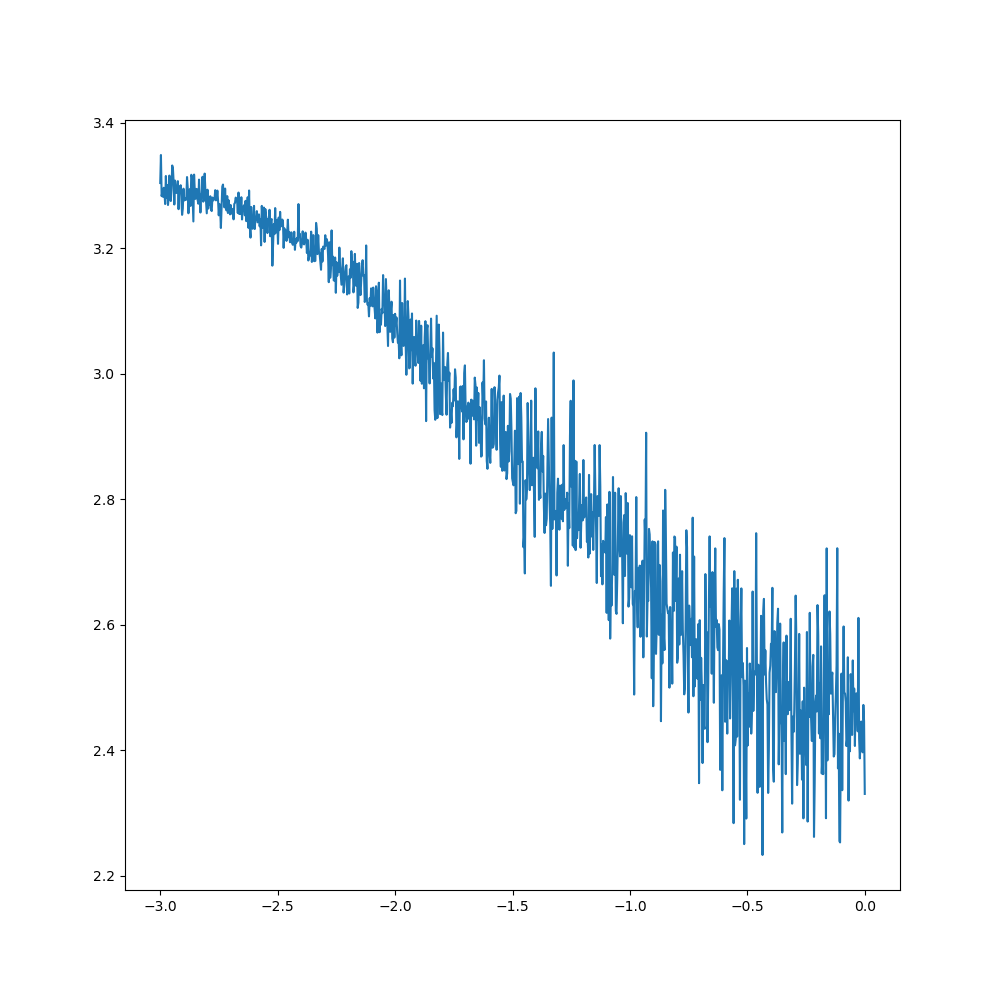
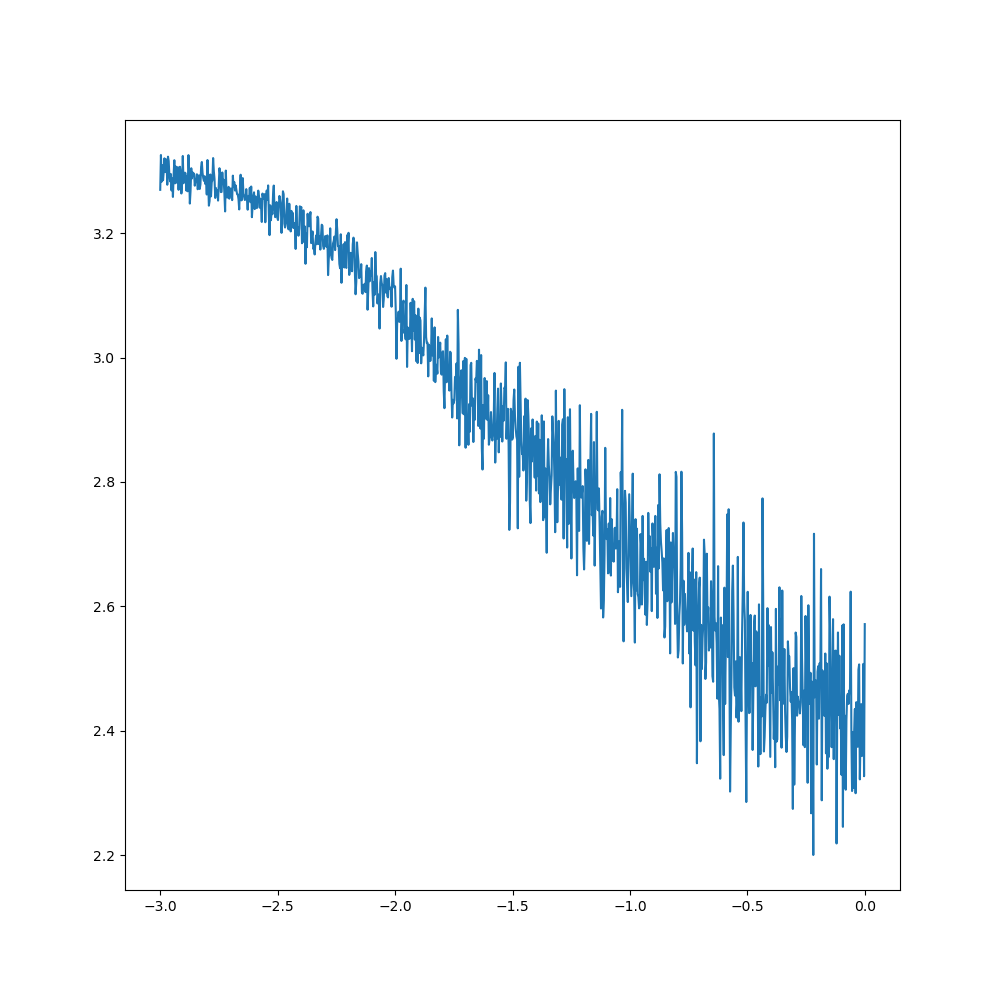
Added the direction connection
This commit adds the optional direct connection discussed in the paper.
It is important to note that the model's loss did not get better, it
increased from 2.12 to about 2.16.

diff --git a/multilayer_perceptron.py b/multilayer_perceptron.py
@@ -100,7 +100,7 @@ def train(
             embeddings.view(-1, BLOCK_SIZE * EMBEDDING_LENGTH) @ parameters[1]
             + parameters[2]
         )
-        logits = hidden_layer_output @ parameters[3] + parameters[4]
+        logits = embeddings.view(-1, BLOCK_SIZE * EMBEDDING_LENGTH) @ parameters[3] + hidden_layer_output @ parameters[4] + parameters[5]
         train_loss = F.cross_entropy(logits, training_set[1][batch_index])
         losses["training loss"].append(train_loss.item())
         for parameter in parameters:
@@ -120,7 +120,7 @@ def train(
                 embeddings.view(-1, BLOCK_SIZE * EMBEDDING_LENGTH) @ parameters[1]
                 + parameters[2]
             )
-            logits = hidden_layer_output @ parameters[3] + parameters[4]
+            logits = embeddings.view(-1, BLOCK_SIZE * EMBEDDING_LENGTH) @ parameters[3] + hidden_layer_output @ parameters[4] + parameters[5]
             val_loss = F.cross_entropy(logits, val_set[1][batch_index])
             losses["validation loss"].append(val_loss.item())
         if epoch % 1000 == 0 or epoch == 1:
@@ -201,7 +201,15 @@ bias_2 = torch.normal(
     requires_grad=True,
     generator=generator
 )
-parameters = [embedding_layer, weights_1, bias_1, weights_2, bias_2]
+direct_connection_weights = torch.normal(
+    0,
+    0.1,
+    (BLOCK_SIZE * EMBEDDING_LENGTH,len(unique_characters)),
+    device=DEVICE,
+    requires_grad=True,
+    generator=generator
+)
+parameters = [embedding_layer, weights_1, bias_1, direct_connection_weights, weights_2, bias_2]
 
 EPOCHS = 1000
 learning_rate_exp = torch.linspace(-3, 0, EPOCHS, device=DEVICE)
@@ -213,7 +221,7 @@ for epoch in range(1, EPOCHS + 1):
     hidden_layer_output = torch.tanh(
         embeddings.view(-1, BLOCK_SIZE * EMBEDDING_LENGTH) @ weights_1 + bias_1
     )
-    logits = hidden_layer_output @ weights_2 + bias_2
+    logits = embeddings.view(-1, BLOCK_SIZE * EMBEDDING_LENGTH) @ direct_connection_weights + hidden_layer_output @ weights_2 + bias_2
     loss = F.cross_entropy(logits, labels[batch_index])
     losses.append(loss.item())
     for parameter in parameters:
@@ -272,12 +280,20 @@ bias_2 = torch.normal(
     requires_grad=True,
     generator=generator
 )
-parameters = [embedding_layer, weights_1, bias_1, weights_2, bias_2]
+direct_connection_weights = torch.normal(
+    0,
+    0.1,
+    (BLOCK_SIZE * EMBEDDING_LENGTH,len(unique_characters)),
+    device=DEVICE,
+    requires_grad=True,
+    generator=generator
+)
+parameters = [embedding_layer, weights_1, bias_1, direct_connection_weights, weights_2, bias_2]
 EPOCHS = 200000
 
 wandb.init(
     project="ml-gallery",
-    name="mlp_classifier-uniform",
+    name="direct-conn",
     config={
         "BLOCK_SIZE": BLOCK_SIZE,
         "HIDDEN_LAYER": HIDDEN_LAYER,
@@ -307,7 +323,7 @@ with torch.no_grad():
         embeddings.view(-1, BLOCK_SIZE * EMBEDDING_LENGTH) @ parameters[1]
         + parameters[2]
     )
-    logits = hidden_layer_output @ parameters[3] + parameters[4]
+    logits = embeddings.view(-1, BLOCK_SIZE * EMBEDDING_LENGTH) @ parameters[3] + hidden_layer_output @ parameters[4] + parameters[5]
     test_loss = F.cross_entropy(logits, test_set[1])
 print(f"Test Loss: {test_loss}")
 wandb.log({"test_loss": test_loss.item()})
